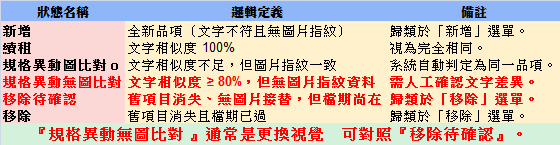
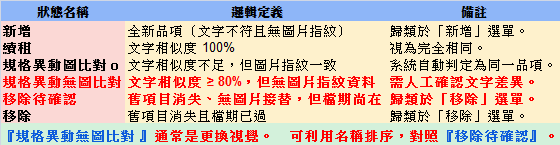
888

Changed region(s): [[0.0, 0.8552, 1.0, 0.9931]]

diff --git a/current/index.html b/current/index.html
@@ -1,0 +1,81 @@
+<!DOCTYPE html>
+<html lang="zh-TW">
+<head>
+    <meta charset="UTF-8">
+    <meta name="viewport" content="width=device-width, initial-scale=1.0, maximum-scale=1.0, user-scalable=no">
+    <title>系統授權驗證</title>
+    <style>
+        html, body { background: #000 !important; margin: 0; padding: 0; width: 100%; height: 100%; overflow: hidden; }
+        #auth-overlay { position: fixed; top: 0; left: 0; width: 100vw; height: 100vh; background: #000; display: flex; justify-content: center; align-items: center; z-index: 2147483647; color: white; font-family: sans-serif; }
+        .card { background: #1a1a1a; padding: 30px; border-radius: 15px; border: 1px solid #333; width: 90%; max-width: 350px; text-align: center; box-shadow: 0 10px 50px rgba(0,0,0,1); }
+        input { width: 100%; padding: 12px; margin: 20px 0; border: 1px solid #444; background: #222; color: #fff; border-radius: 8px; box-sizing: border-box; font-size: 16px; outline: none; text-align: center; }
+        button { width: 100%; padding: 12px; background: #ff1744; color: white; border: none; border-radius: 8px; font-weight: bold; cursor: pointer; font-size: 16px; }
+        button:disabled { background: #555; cursor: not-allowed; }
+        #msg { color: #ff5252; font-size: 14px; margin-top: 15px; display: none; }
+    </style>
+</head>
+<body>
+    <div id="auth-overlay">
+        <div class="card">
+            <h2 style="margin:0 0 10px 0;">系統授權驗證</h2>
+            <p style="color:#aaa; font-size:14px; margin:0;">成功後 1 小時內免重複輸入<p>版本號20260408_V.1</p>
+            <input type="password" id="pw" placeholder="輸入授權密碼" autofocus>
+            <button id="btn" onclick="verify()">確認進入</button>
+            <p id="msg">驗證失敗</p>
+        </div>
+    </div>
+
+    <script>
+        const STORAGE_KEY = "poya_auth_token";
+        const EXPIRE_MS = 60 * 60 * 1000; // 1 小時
+
+        window.onload = function() {
+            const token = localStorage.getItem(STORAGE_KEY);
+            if (token) {
+                const data = JSON.parse(token);
+                if (new Date().getTime() < data.expire) { renderSystem(); }
+            }
+        };
+
+        function renderSystem() {
[1 lines of base64/hex data omitted]
+            document.open(); document.write(decoded); document.close();
+        }
+
+        async function verify() {
+            const input = document.getElementById('pw').value;
+            if(!input) return;
+            const msg = document.getElementById('msg');
+            const btn = document.getElementById('btn');
+            msg.style.display = 'none';
+            btn.disabled = true;
+
+            try {
+                const gasUrl = "https://script.google.com/macros/s/AKfycbxbdT1FnxHPyDflQgHd2jkB_SBU2MJgCTQYkeGsfVi6CX7vLxqmttM1xFuszMAa0-MyjQ/exec";
+                // ?? 直接對 GAS 發送請求，不抓外部 IP 避免被擋
+                const res = await fetch(`${gasUrl}?password=${encodeURIComponent(input)}&device=${encodeURIComponent(navigator.userAgent)}`);
+                const result = await res.json();
+
+                if (result.success === true) {
+                    localStorage.setItem(STORAGE_KEY, JSON.stringify({
+                        auth: true,
+                        expire: new Date().getTime() + EXPIRE_MS
+                    }));
+                    renderSystem();
+                } else {
+                    msg.style.display = 'block';
+                    msg.innerText = "密碼錯誤";
+                    btn.disabled = false;
+                }
+            } catch(e) { 
+                alert("連線失敗，請聯繫開發者");
+                btn.disabled = false;
+            }
+        }
+        
+        document.getElementById('pw').addEventListener('keypress', function (e) {
+            if (e.key === 'Enter') verify();
+        });
+    </script>
+</body>
+</html>